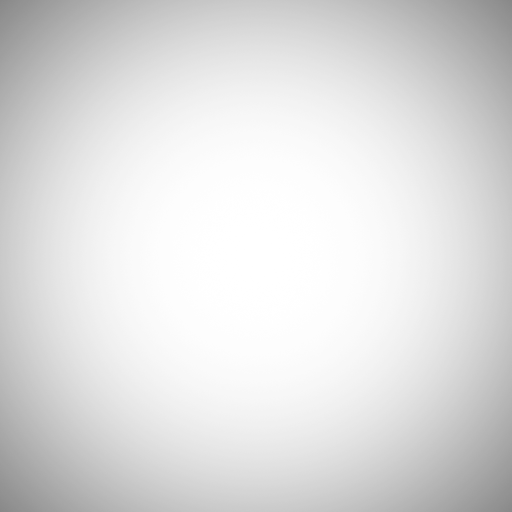
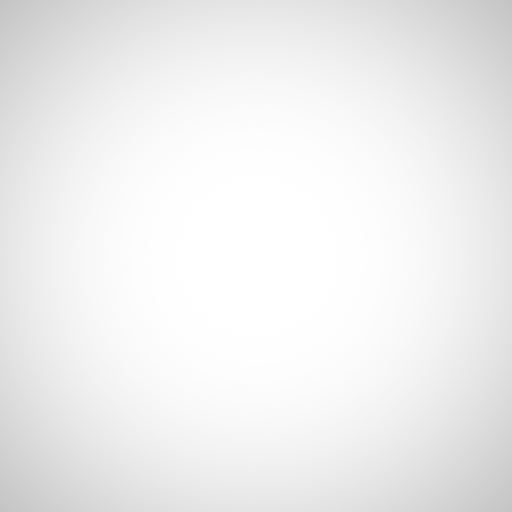
rearrange, force clamp

Changed region(s): [[0.0, 0.0, 1.0, 1.0]]

diff --git a/src/main.rs b/src/main.rs
@@ -1,5 +1,5 @@
 use cart::Cart;
-use egui::FontDefinitions;
+use egui::Align2;
 use macroquad::prelude::*;
 
 use crate::theme::get_theme;
@@ -11,9 +11,9 @@ fn window_conf() -> Conf {
     Conf {
         window_title: "Cart".to_string(),
         // fullscreen: true,
-        window_resizable: true,
-        // window_width: 640,
-        // window_height: 360,
+        window_resizable: false,
+        window_width: 640,
+        window_height: 400,
         ..Default::default()
     }
 }
@@ -22,17 +22,6 @@ async fn main() {
     let mut cart = Cart::new();
     let grid = 0.15;
     let vingette = load_texture("vingette2.png").await.unwrap();
-
-    #[derive(PartialEq)]
-    enum Enum {
-        First,
-        Second,
-        Third,
-    }
-    let mut my_f32: f32 = 0.;
-    let mut my_string: String = "Hello World!".to_owned();
-    let mut my_boolean: bool = true;
-    let mut my_enum: Enum = Enum::First;
 
     egui_macroquad::cfg(|ctx| {
         get_theme(ctx);
@@ -48,21 +37,16 @@ async fn main() {
                 "../Jost-Regular.ttf"
             )),
         );
-
-        // Put my font first (highest priority) for proportional text:
         fonts
             .families
             .entry(egui::FontFamily::Proportional)
             .or_default()
             .insert(0, "my_font".to_owned());
-
-        // Put my font as last fallback for monospace:
         fonts
             .families
             .entry(egui::FontFamily::Monospace)
             .or_default()
             .insert(0, "my_font".to_owned());
-
         // ctx.set_fonts(fonts);
     });
 
@@ -81,10 +65,6 @@ async fn main() {
 
         draw_blue_grid(grid, SKYBLUE, 0.001, 3, 0.003);
 
-        if is_key_pressed(KeyCode::RightAlt) {
-            break;
-        }
-
         cart.display(
             // Color::new(0.50, 0.85, 1.00, 1.00),
             WHITE,
@@ -94,10 +74,46 @@ async fn main() {
             0.3,
             0.12,
         );
+        draw_ui(&mut cart.pid);
+        draw_vingette(vingette);
+        next_frame().await;
+    }
 
+    fn draw_ui(pid: &mut (f64, f64, f64)) {
+        // spawn window aligned to right edge
+        egui_macroquad::ui(|ctx| {
+            ctx.set_pixels_per_point(screen_width() / 720.);
+            egui::Window::new("egui ❤ macroquad")
+                // .auto_sized()
+                .anchor(Align2::RIGHT_TOP, egui::emath::vec2(-0., 0.))
+                .resizable(false)
+                .movable(false)
+                .collapsible(false)
+                .title_bar(false)
+                .show(ctx, |ui| {
+                    ui.with_layout(egui::Layout::top_down(egui::Align::RIGHT), |ui| {
+                        ui.label("This is a label");
+                        // ui.widt();
+                        if ui.button("Click me").clicked() {}
+                        ui.horizontal(|ui| {
+                            ui.add(egui::Slider::new(&mut pid.0, 0.0..=100.0).text("P"));
+                        });
+                        ui.horizontal(|ui| {
+                            ui.add(egui::Slider::new(&mut pid.1, 0.0..=100.0).text("I"));
+                        });
+                        ui.horizontal(|ui| {
+                            ui.add(egui::Slider::new(&mut pid.2, 0.0..=100.0).text("D"));
+                        });
+                    });
+                });
+        });
+        egui_macroquad::draw();
+    }
+
+    fn draw_vingette(tex: Texture2D) {
         set_default_camera();
         draw_texture_ex(
-            vingette,
+            tex,
             0.,
             0.,
             WHITE,
@@ -106,34 +122,6 @@ async fn main() {
                 ..Default::default()
             },
         );
-
-        egui_macroquad::ui(|egui_ctx| {
-            egui::Window::new("egui ❤ macroquad")
-                .resizable(false)
-                .movable(false)
-                .collapsible(false)
-                .title_bar(false)
-                .show(egui_ctx, |ui| {
-                    ui.label("This is a label");
-                    ui.hyperlink("https://github.com/emilk/egui");
-                    ui.text_edit_singleline(&mut my_string);
-                    if ui.button("Click me").clicked() {}
-                    ui.add(egui::Slider::new(&mut my_f32, 0.0..=100.0));
-                    ui.add(egui::DragValue::new(&mut my_f32));
-
-                    ui.checkbox(&mut my_boolean, "Checkbox");
-
-                    ui.horizontal(|ui| {
-                        ui.radio_value(&mut my_enum, Enum::First, "First");
-                        ui.radio_value(&mut my_enum, Enum::Second, "Second");
-                        ui.radio_value(&mut my_enum, Enum::Third, "Third");
-                    });
-
-                    ui.separator();
-                });
-        });
-        egui_macroquad::draw();
-        next_frame().await;
     }
 
     fn draw_blue_grid(grid: f32, color: Color, thickness: f32, bold_every: i32, bold_thick: f32) {

diff --git a/src/cart.rs b/src/cart.rs
@@ -9,6 +9,7 @@ use crate::state::State;
 
 pub struct Cart {
     pub F: f64,
+    pub pid: (f64, f64, f64),
     m: f64,
     M: f64,
     int: f64,
@@ -43,25 +44,29 @@ impl Cart {
             R: 30.,
             r: 30.,
             state: State::from(0.0, 0.0, 0.0, PI + 0.5),
-            b1: 0.,
-            b2: 0.,
+            b1: 0.2,
+            b2: 0.1,
             m1,
             m2,
             m3,
             mw,
-            camera: CameraDynamics::new(1.5, 0.75, 0., 0.0),
+            // pid: (60., 10., 40.),
+            pid: (50., 3., 5.),
+            camera: CameraDynamics::new(1.2, 0.75, 0., 0.0),
         }
     }
 
     pub fn update(&mut self, dt: f64) {
         self.camera.update(self.state.x, self.state.v, dt);
-        // println!("{} \t {} ", dt, get_time());
         let steps = if dt > 0.02 { (60. * dt) as i32 } else { 5 };
         let dt = dt / steps as f64;
         for _ in 0..steps {
             let error = PI - self.state.th;
             self.int += error * dt;
-            self.F = 1000. * (error * 60.0 - self.state.w * 10.0 + self.int * 40.);
+            self.F = 1000.
+                * (error * self.pid.0 - self.state.w * self.pid.1 + self.int * self.pid.2)
+                    .clamp(-30., 30.);
+            // dbg!(self.F);
             if is_key_down(KeyCode::Left) {
                 self.F = -1000.;
                 self.int = 0.

diff --git a/test.py b/test.py
@@ -3,5 +3,5 @@ img = Image.open("vingette.png")
 pixels = img.load()
 for y in range(img.height):
     for x in range(img.width):
-        pixels[x, y] = (0, 0, 0, 255 - pixels[x, y][0])
+        pixels[x, y] = (0, 0, 0, (int)((255 - pixels[x, y][0])*0.5))
 img.save("vingette2.png")

diff --git a/src/theme.rs b/src/theme.rs
@@ -44,4 +44,5 @@ pub fn get_theme(ctx: &Context) {
         },
         ..Default::default()
     });
+    // ctx.set_visuals(style::Visuals::dark());
 }
